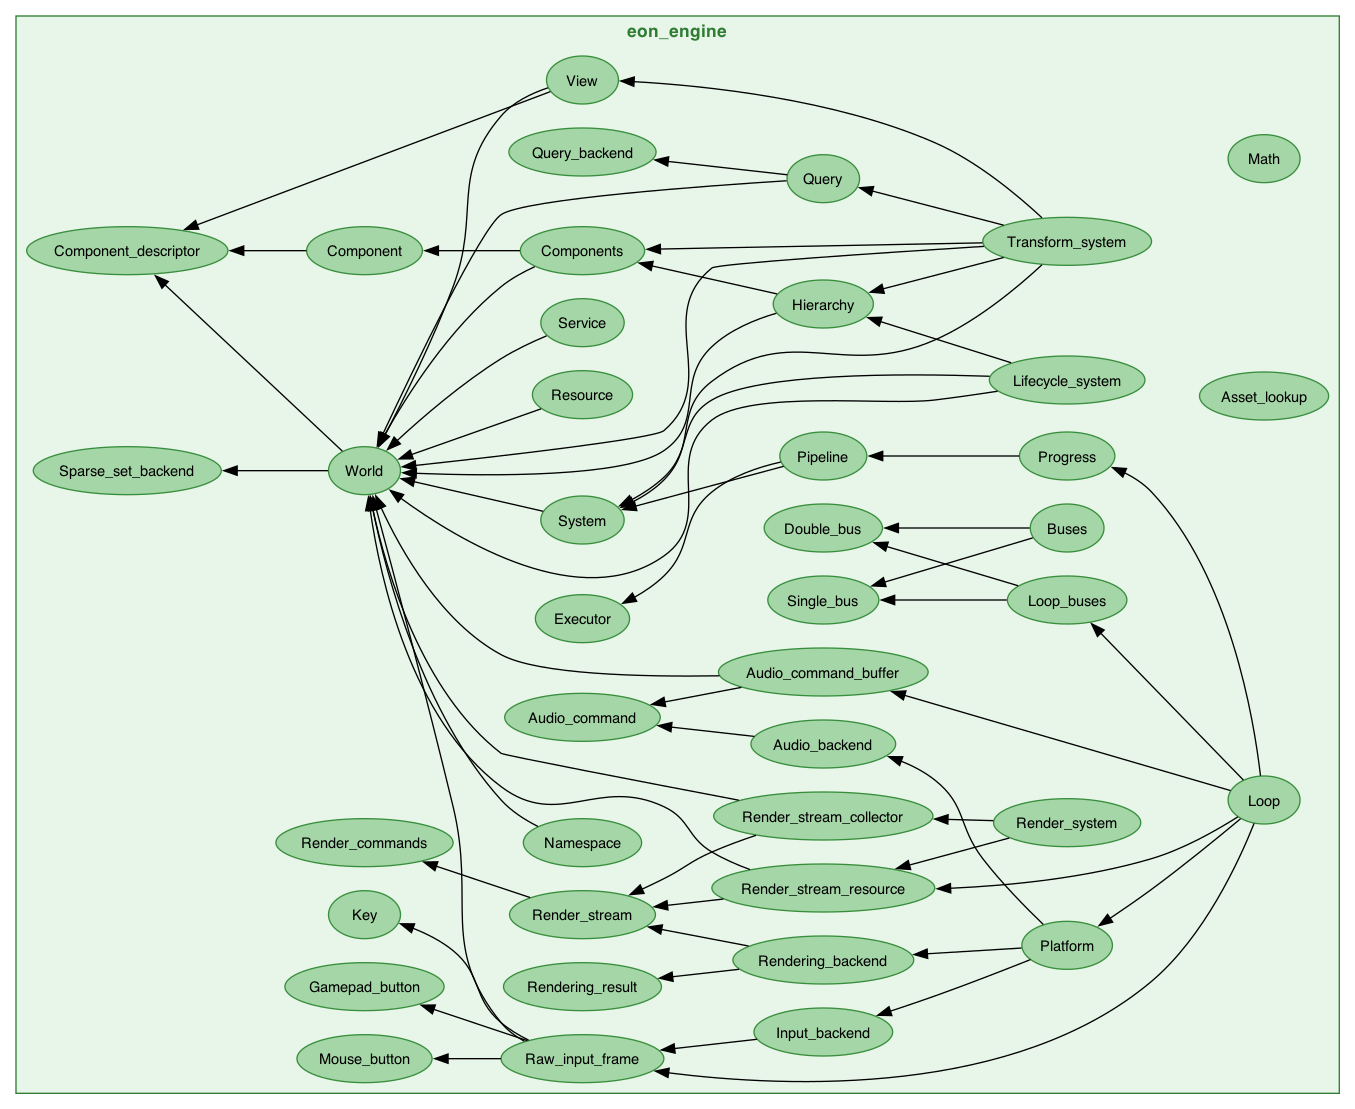
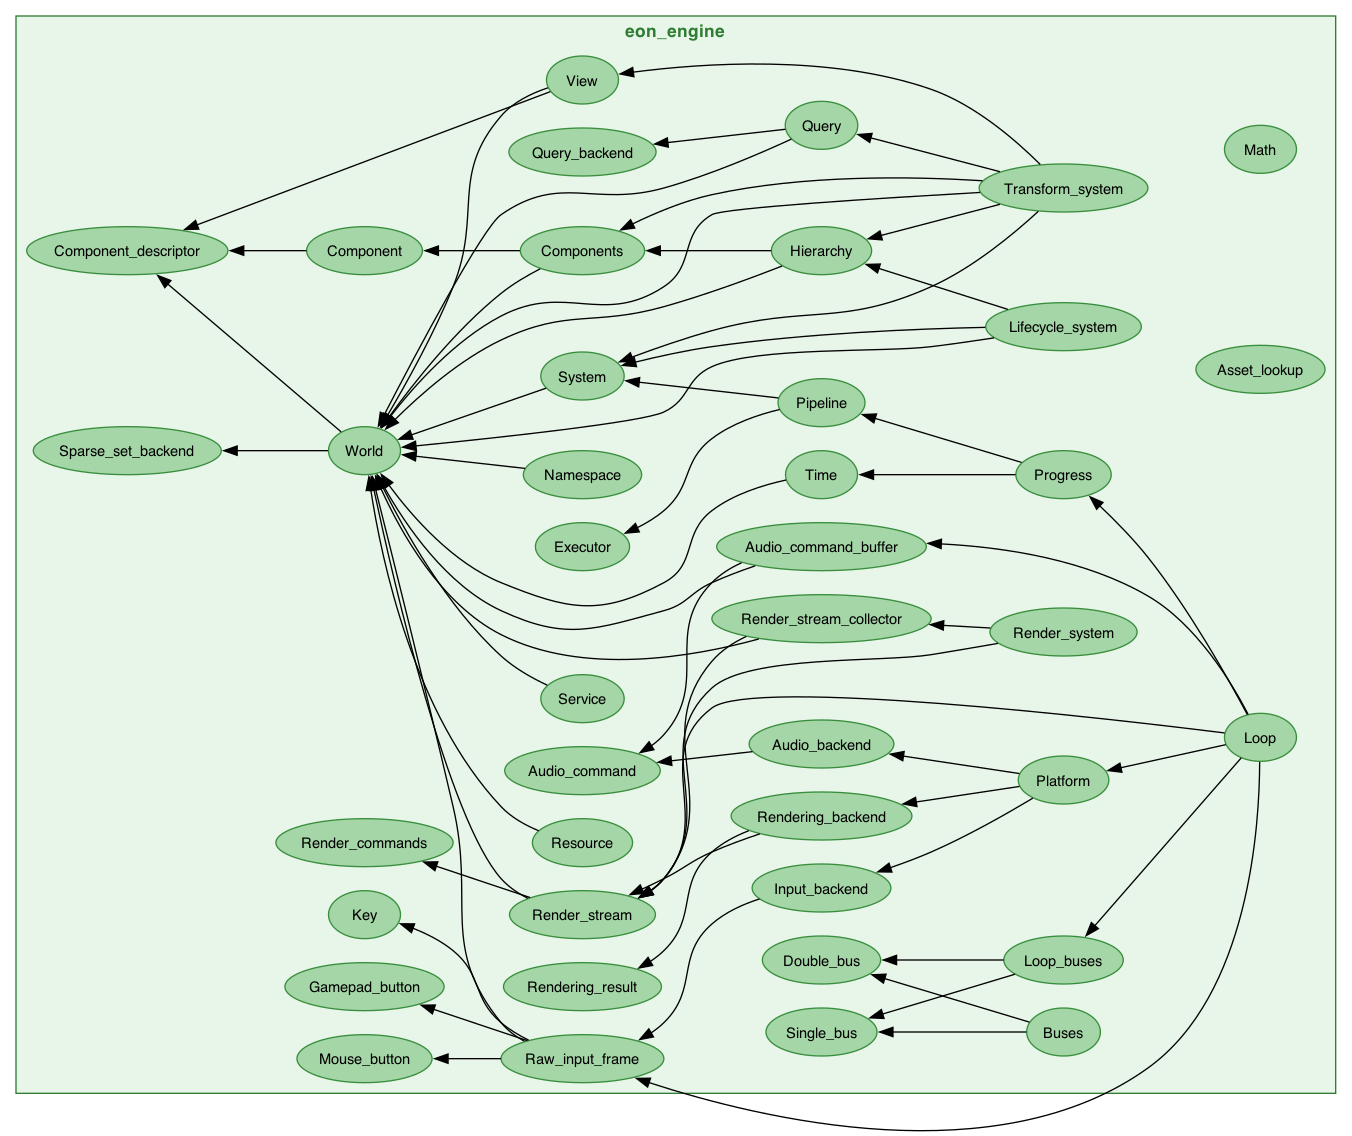
[eon :: docs] Update visualizations for ecs-035 changes
Remove Render_stream_resource node, add Time node and Progress.Make_with_time
functor to the engine dependency and functor graphs. Regenerate all images
and codebase_map.md stats (280 test cases, 75 public modules).

diff --git a/docs/design/codebase_map.md b/docs/design/codebase_map.md
@@ -76,32 +76,32 @@ Implementation (`.ml`) line count per module, excluding tests, benchmarks, and c
 
 ## Code statistics
 
-_Generated by `just visualizations` on 2026-07-05._
+_Generated by `just visualizations` on 2026-07-07._
 
 ### Line counts
 
 | Category | eon\_ecs | eon\_engine | Total |
 |---|---:|---:|---:|
-| Source implementation (`.ml`) | 2051 | 1562 | 3613 |
-| Public interfaces (`.mli`) | 1223 | 2161 | 3384 |
-| Tests | 2000 | 3170 | 5170 |
+| Source implementation (`.ml`) | 2051 | 1611 | 3662 |
+| Public interfaces (`.mli`) | 1223 | 2238 | 3461 |
+| Tests | 2000 | 3266 | 5266 |
 | Benchmarks | 916 | 213 | 1129 |
 
 ### Module counts
 
 | | eon\_ecs | eon\_engine | Total |
 |---|---:|---:|---:|
-| Public modules (with `.mli`) | 20 | 54 | 74 |
-| Test suites | 20 | 18 | 38 |
-| Test cases | 78 | 193 | 271 |
+| Public modules (with `.mli`) | 20 | 55 | 75 |
+| Test suites | 20 | 19 | 39 |
+| Test cases | 78 | 202 | 280 |
 
 ### Repository
 
 | | |
 |---|---|
-| Total commits | 275 |
+| Total commits | 279 |
 | Open issues | 0 |
 | Created | 2025-10-11 |
-| Last commit | 2026-07-05 |
+| Last commit | 2026-07-07 |
 
 <!-- STATS_END -->
